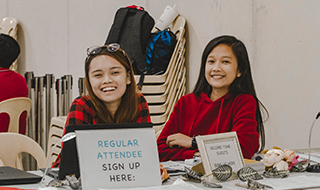
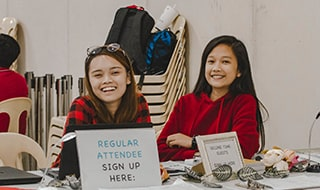
replace images with compressed version

diff --git a/src/index.html b/src/index.html
@@ -1,11 +1,31 @@
 <!doctype html>
 <html lang="en">
 <head>
-  <meta charset="utf-8">
   <title>Elevate CDO</title>
   <base href="/">
   <meta name="viewport" content="width=device-width, initial-scale=1">
+
+  <meta charset="utf-8">
+  <meta name="description" content="ELEVATE is a nationwide student organization that aims to take students to the next LEVEL. We want every student to experience a Life Empowered through Values, Excellence, and Leadership.">
+  <meta name="keywords" content="elevate, ccf, students, gospel, Jesus Christ, faith, organization, christianity, christian, fellowship, fun">
+
+  <meta property="og:locale" content="en_US">
+  <meta property="og:type" content="website">
+  <meta property="og:site_name" content="Elevate CDO">
+  <meta property="og:title" content="Elevate CDO">
+  <meta property="og:description" content="ELEVATE is a nationwide student organization that aims to take students to the next LEVEL. We want every student to experience a Life Empowered through Values, Excellence, and Leadership.">
+  <meta property="og:url" content="https://elevate-cdo.web.app/">
+  <meta property="og:image" content="https://elevate-cdo.web.app/assets/images/go-serve.jpg">
+  <meta property="og:image:secure_url" content="https://elevate-cdo.web.app/assets/images/go-serve.jpg">
+  <meta property="fb:page_id" content="205570602925219">
+
+  <meta name="twitter:title" content="Elevate CDO">
+  <meta name="twitter:description" content="ELEVATE is a nationwide student organization that aims to take students to the next LEVEL. We want every student to experience a Life Empowered through Values, Excellence, and Leadership.">
+  <meta name="twitter:image" content="https://elevate-cdo.web.app/assets/images/go-serve.jpg">
+  <meta name="twitter:card" content="summary_large_image">
+
   <link rel="icon" type="image/x-icon" href="favicon.ico">
+  <link rel="canonical" href="https://elevate-cdo.web.app/"/>
 </head>
 <body>
   <app-root></app-root>

diff --git a/src/app/pages/ministry-bazaar/ministry-bazaar.component.html b/src/app/pages/ministry-bazaar/ministry-bazaar.component.html
@@ -24,7 +24,7 @@
     <div class="mission">
       <p class="p section-header" data-aos="fade-right" data-aos-duration="700" data-aos-once="true">Mission</p>
       <p data-aos="fade-up" data-aos-duration="700" data-aos-once="true">
-        To honor God and make Christ-committed followers who will make Christ-committed followers.
+        To honor God and make Christ-committed students who will make Christ-committed students.
       </p>
     </div>
     <div class="vision">
